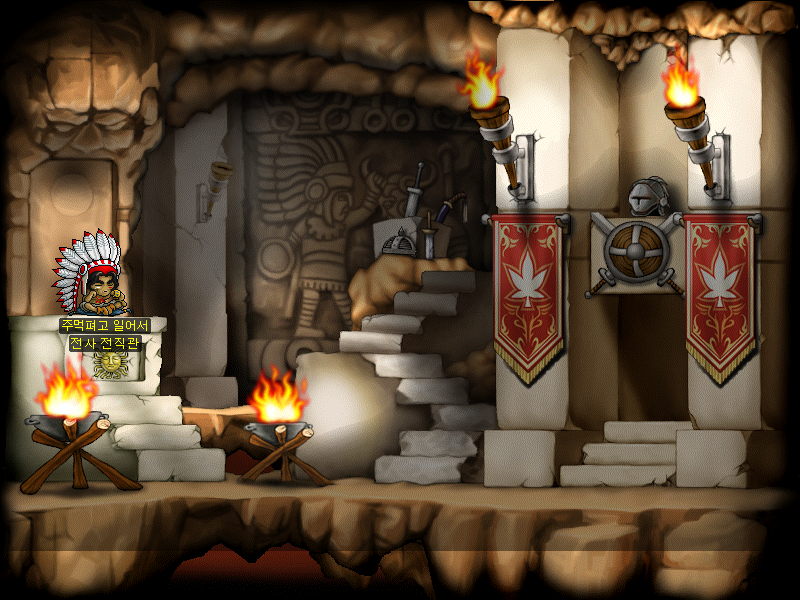
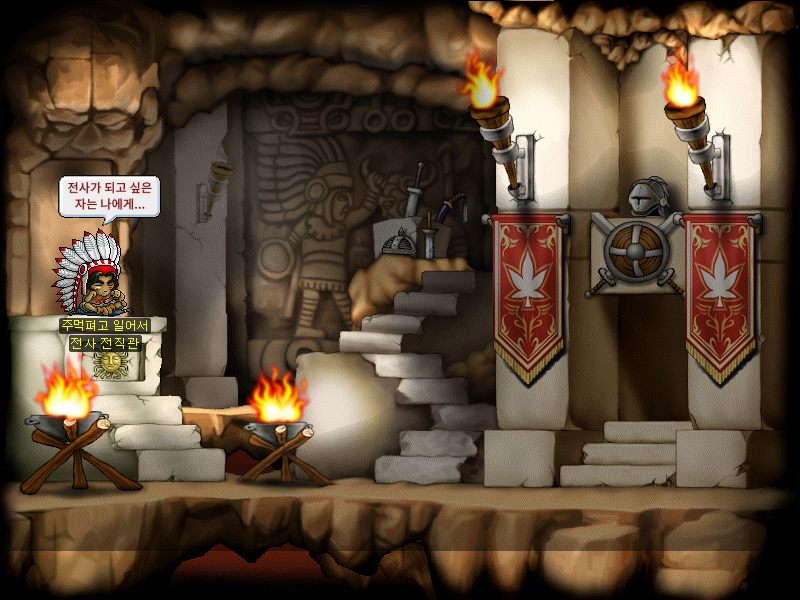
주먹펴고일어서 (전사 전직관) 추가

Changed region(s): [[0.0625, 0.27, 0.2188, 0.39]]

diff --git a/player.py b/player.py
@@ -1,4 +1,4 @@
-from pico2d import load_image, SDL_KEYDOWN, SDLK_RIGHT, SDLK_LEFT, SDLK_LALT, SDLK_LCTRL, SDLK_a, SDL_KEYUP, SDLK_DOWN, get_time, draw_rectangle
+from pico2d import load_image, SDLK_UP, SDLK_DOWN, SDLK_RIGHT, SDLK_LEFT, SDLK_LALT, SDLK_LCTRL, SDLK_a, SDLK_SPACE, SDL_KEYUP, SDL_KEYDOWN, get_time, draw_rectangle
 import math
 from bounding_box import Box
 from background import coordinates
@@ -22,6 +22,12 @@ def down_down(e):
 def down_up(e):
     return e[0] == 'INPUT' and e[1].type == SDL_KEYUP and e[1].key == SDLK_DOWN
 
+def up_down(e):
+    return e[0] == 'INPUT' and e[1].type == SDL_KEYDOWN and e[1].key == SDLK_UP
+
+def up_up(e):
+    return e[0] == 'INPUT' and e[1].type == SDL_KEYUP and e[1].key == SDLK_UP
+
 def alt_down(e):
     return e[0] == 'INPUT' and e[1].type == SDL_KEYDOWN and e[1].key == SDLK_LALT
 
@@ -36,6 +42,12 @@ def ctrl_up(e):
 
 def a_down(e):
     return e[0] == 'INPUT' and e[1].type == SDL_KEYDOWN and e[1].key == SDLK_a
+
+def space_down(e):
+    return e[0] == 'INPUT' and e[1].type == SDL_KEYDOWN and e[1].key == SDLK_SPACE
+
+def space_up(e):
+    return e[0] == 'INPUT' and e[1].type == SDL_KEYUP and e[1].key == SDLK_SPACE
 
 
 class Idle:
@@ -367,8 +379,10 @@ class Player:
         self.right_key_pressed = False
         self.left_key_pressed = False
         self.down_key_pressed = False
+        self.up_key_pressed = False
         self.alt_key_pressed = False
         self.ctrl_key_pressed = False
+        self.space_key_pressed = False
 
     def jump(self):
         if not self.jumping and not self.air:
@@ -409,12 +423,16 @@ class Player:
                 self.jump()
             elif event.key == SDLK_DOWN:
                 self.down_key_pressed = True
+            elif event.key == SDLK_UP:
+                self.up_key_pressed = True
             elif event.key == SDLK_RIGHT:
                 self.right_key_pressed = True
             elif event.key == SDLK_LEFT:
                 self.left_key_pressed = True
             elif event.key == SDLK_LCTRL:
                 self.ctrl_key_pressed = True
+            elif event.key == SDLK_SPACE:
+                self.space_key_pressed = True
             elif event.key == SDLK_a:
                 self.image = load_image('warrior_1.png')
                 self.char = 1
@@ -425,12 +443,16 @@ class Player:
                 self.alt_key_pressed = False
             elif event.key == SDLK_DOWN:
                 self.down_key_pressed = False
+            elif event.key == SDLK_UP:
+                self.up_key_pressed = False
             elif event.key == SDLK_RIGHT:
                 self.right_key_pressed = False
             elif event.key == SDLK_LEFT:
                 self.left_key_pressed = False
             elif event.key == SDLK_LCTRL:
                 self.ctrl_key_pressed = False
+            elif event.key == SDLK_SPACE:
+                self.space_key_pressed = False
 
         self.state_machine.handle_event(('INPUT', event))
 

diff --git a/player_control.py b/player_control.py
@@ -4,6 +4,7 @@ from pico2d import *
 from background import Back, Platform
 from player import Player
 from bounding_box import Box
+from npc import NPC
 
 import game_world
 
@@ -11,6 +12,7 @@ import game_world
 def handle_events():
     global running
     global box
+    global npc
 
     events = get_events()
     for event in events:
@@ -20,6 +22,7 @@ def handle_events():
             running = False
         elif event.type == SDL_KEYDOWN and event.key == SDLK_F1:
              box.box_on = not box.box_on
+             npc.box_on = not npc.box_on
              Back.line_on = not Back.line_on
         else:
             player.handle_event(event)
@@ -31,6 +34,7 @@ def reset_world():
     global player
     global box
     global platforms
+    global npc
 
     running = True
 
@@ -46,9 +50,13 @@ def reset_world():
     platforms = [Platform() for _ in range(8)]
     game_world.add_objects(platforms, 2)
 
+    npc = NPC()
+    game_world.add_object(npc, 2)
+
     game_world.add_collision_pair('player:platform', box, None)
     for platform in platforms:
         game_world.add_collision_pair('player:platform', None, platform)
+    # game_world.add_collision_pair('mouse:npc', box, npc)
 
 
 def update_world():

diff --git a/npc.py b/npc.py
@@ -1,0 +1,25 @@
+from pico2d import draw_rectangle, SDLK_F1
+from player import Player
+import game_world
+
+
+class NPC:
+    def __init__(self):
+        self.left, self.bottom, self.right, self.top = 76, 283, 120, 350
+        self.box_on = False
+
+    def draw(self):
+        if self.box_on:
+            draw_rectangle(self.left, self.bottom, self.right, self.top)
+
+    def update(self):
+        pass
+
+    def get_bb(self):
+        return self.left, self.bottom, self.right, self.bottom
+        pass
+
+    def handle_collision(self, group, other):
+        if group == 'mouse:npc':
+            print('asd')
+        pass

diff --git a/background.py b/background.py
@@ -27,6 +27,7 @@ coordinates = [
 
 class Platform:
     instance_count = 0
+
     def __init__(self):
         if Platform.instance_count < len(coordinates):
             self.left, self.bottom, self.right, self.top = coordinates[Platform.instance_count]
@@ -45,7 +46,6 @@ class Platform:
 
     def get_bb(self):
         return self.left, self.bottom, self.right, self.top
-        pass
 
     def handle_collision(self, group, other):
         pass
